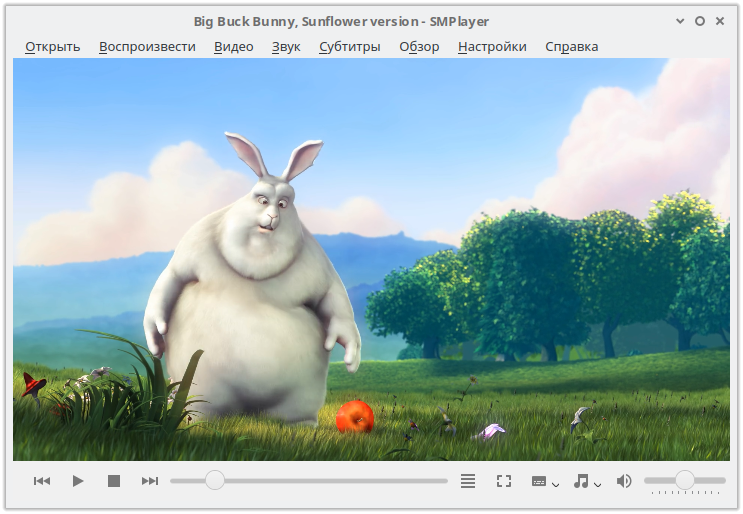
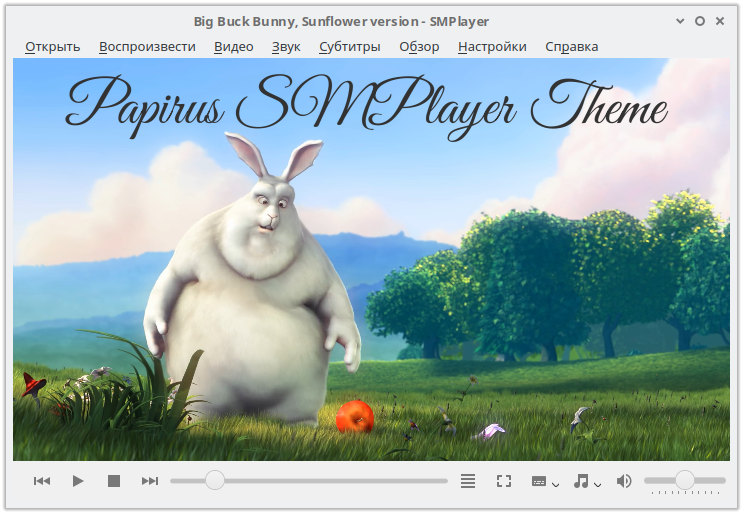
update preview

Changed region(s): [[0.0929, 0.1245, 0.8977, 0.2802]]

diff --git a/README.md b/README.md
@@ -1,10 +1,17 @@
-# papirus-smplayer-theme
-SMPlayer papirus theme. Available dark and white version.
+<p align="center">
+  <img src="https://raw.githubusercontent.com/PapirusDevelopmentTeam/papirus-smplayer-theme/master/preview.png" alt="preview"/>
+</p>
 
-![Screenshot](preview.png)
+**NOTE**: Papirus and Papirus Dark themes already available on > SMPlayer 16.6
 
 # Install
-Archlinux (AUR):
+**Archlinux (AUR)**:
 ```
 yaourt -S papirus-smplayer-theme
+```
+**Kubuntu 14.04/16.04**:
+```
+sudo add-apt-repository ppa:varlesh-l/papirus-pack
+sudo apt-get update
+sudo apt-get install smplayer-skin-papirus
 ```
